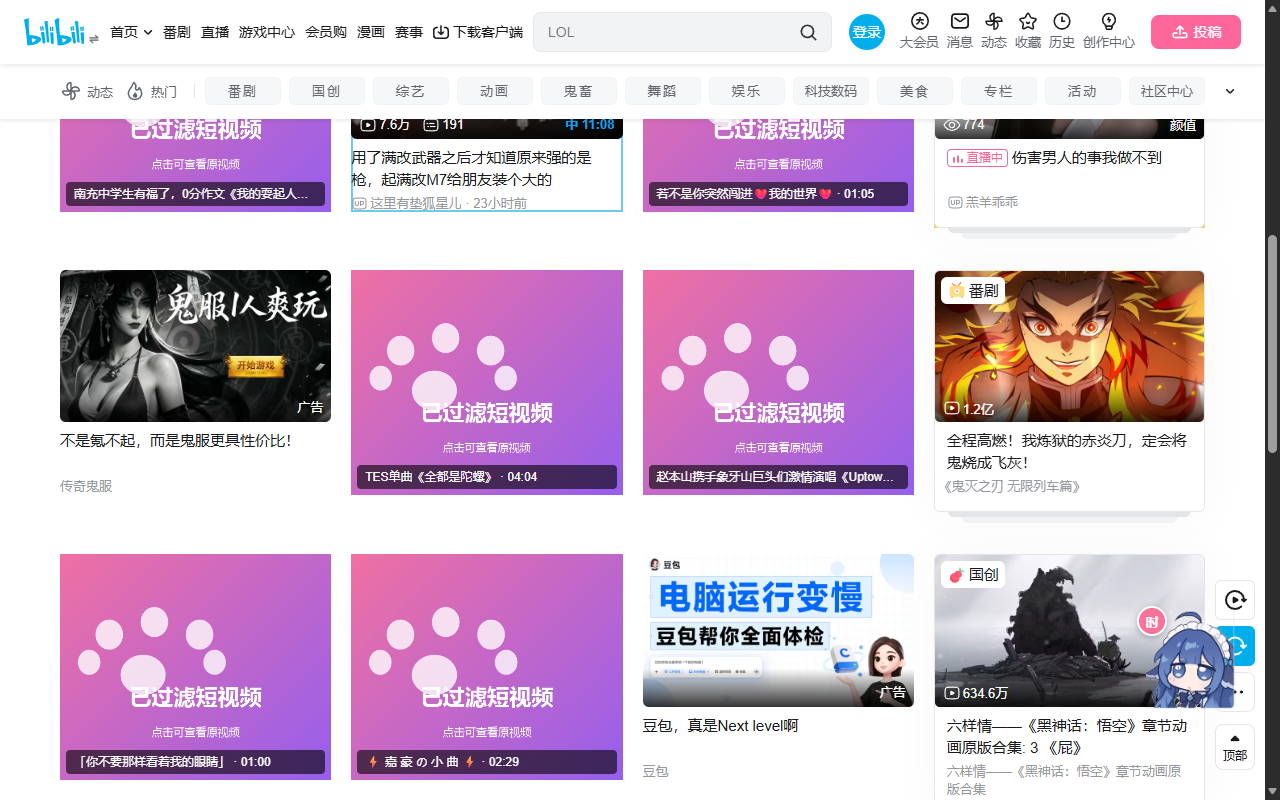
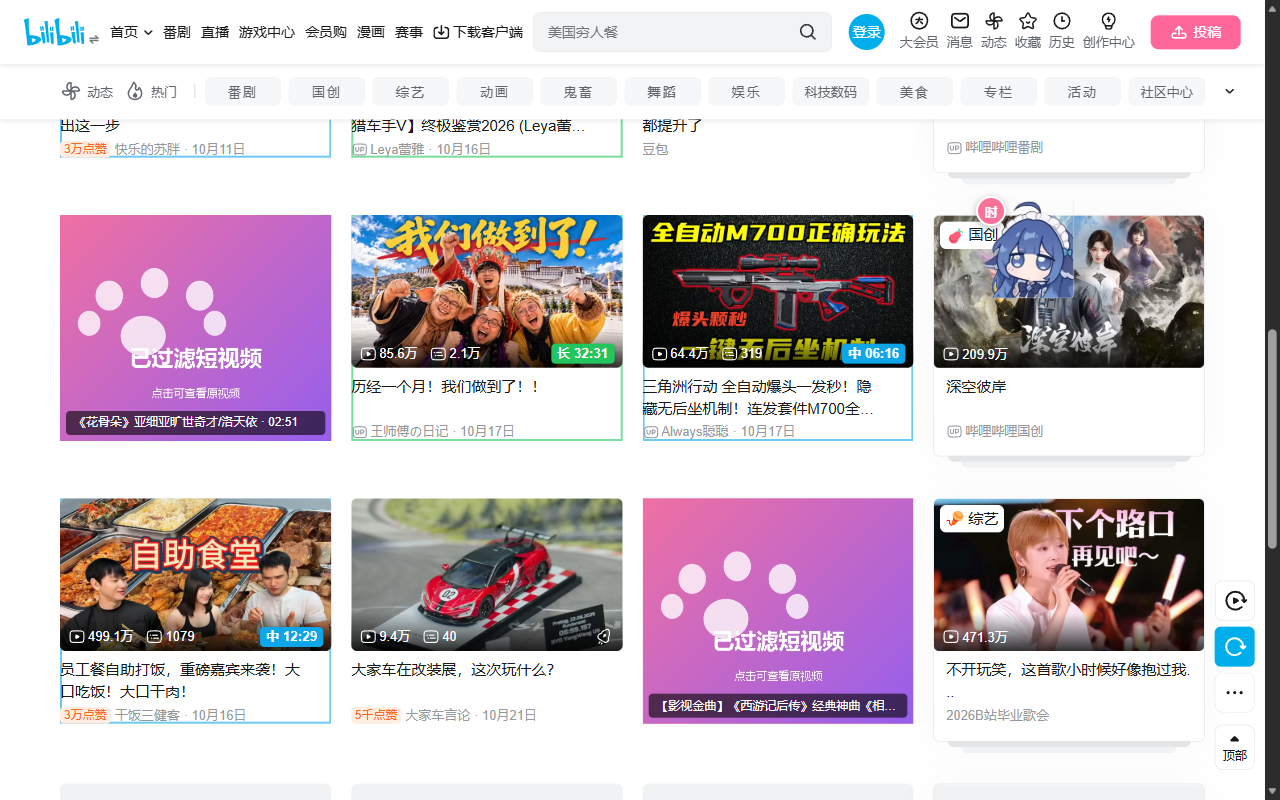
feat: turn duration labels into colored badges (v1.5.4)
short/mid/long now render as filled pills (#f43f5e / #0ea5e9 / #22c55e) instead of colored prefix text, so the tier is readable at a glance. Five store screenshots reshot against 1.5.4.

diff --git a/B站时长过滤扩展/content.js b/B站时长过滤扩展/content.js
@@ -269,10 +269,15 @@
     .bili-dur-mid { box-shadow: inset 0 0 0 2px rgba(14, 165, 233, 0.6); }
     .bili-dur-long { box-shadow: inset 0 0 0 2px rgba(34, 197, 94, 0.6); }
     .bili-dur-live { box-shadow: inset 0 0 0 2px rgba(255, 170, 0, 0.6); }
-    .bili-dur-short [data-bili-dur-marked] { color: #f43f5e; }
-    .bili-dur-mid [data-bili-dur-marked] { color: #0ea5e9; }
-    .bili-dur-long [data-bili-dur-marked] { color: #22c55e; }
-    [data-bili-dur-marked] { font-weight: 600; }
+    [data-bili-dur-marked] {
+      display: inline-block; font-weight: 700; letter-spacing: 0.2px;
+      padding: 1px 6px; border-radius: 4px; line-height: 1.4;
+      color: #fff; background: rgba(0,0,0,0.62);
+      box-shadow: 0 1px 3px rgba(0,0,0,0.3);
+    }
+    .bili-dur-short [data-bili-dur-marked] { color: #fff; background: #f43f5e; }
+    .bili-dur-mid [data-bili-dur-marked] { color: #fff; background: #0ea5e9; }
+    .bili-dur-long [data-bili-dur-marked] { color: #fff; background: #22c55e; }
     .bili-dur-filtered { position: relative !important; overflow: hidden; }
     .bili-dur-filtered > *:not(.bili-dur-ph-tag) { opacity: 0; }
     .bili-dur-filtered::after {

diff --git a/docs/商店文案.md b/docs/商店文案.md
@@ -116,13 +116,15 @@ short video blocker
 
 ## 8. Screenshots（截图，1280×800 或 640×480，最多 6 张）
 
-已拍好 5 张，存放在 `docs/screenshots/`，尺寸就是 1280×800，可直接上传。按下面顺序提交，顺序即卖点顺序：
+已拍好 5 张（1.5.4 徽章版），存放在 `docs/screenshots/`，尺寸就是 1280×800，可直接上传。按下面顺序提交，顺序即卖点顺序：
 
-1. `01-store-home.png` —— **首页分类 + 遮挡**。7 张卡片在视口内，15 张带档位标记（彩色描边 + 时长前的「短/中/长」），其中 5 张短视频被猫爪占位图盖住，右下角挂件完整在框内。
-2. `02-store-search.png` —— **搜索页过滤**。搜索结果里 7 张带时长标记、4 张被盖住，一屏看出过滤密度。
-3. `03-store-pet-panel.png` —— **桌宠 + 快捷面板**。面板 rect 700,180–960,612，四条边都在画面内，挂件在 980,200 不被压住。
+1. `01-store-home.png` —— **首页分类 + 遮挡**。视口内 8 张卡片，其中 2 张盖上猫爪占位图、3 张带彩色时长徽章（蓝底「中」、绿底「长」），全页 23 处时长标记。右下角挂件完整，无登录弹窗、无空白。
+2. `02-store-search.png` —— **搜索页过滤**。搜索结果里 9 张带彩色徽章（蓝底「中」字清晰可读）、4 张被盖住，一屏看出过滤密度。
+3. `03-store-pet-panel.png` —— **桌宠 + 快捷面板**。面板 rect 700,180–960,613，四条边都在画面内，挂件在 980,200 不被压住；同屏能看到绿底「长 57:13」徽章。
 4. `04-store-popup.png` —— **弹窗设置页**。阈值、开关、三组遮挡照片一屏全见。弹窗本身 300px 宽，出图时按 0.9 缩放居中摆放（实测 bottom 761，没被裁），控件内容没有改动。
-5. `05-store-unhide.png` —— **点击放行**。与第 1 张同位置、同配置、同一次页面加载，用真实鼠标事件左键点掉一张后，被遮卡片恢复成正常封面。像素比对：全画面只有 5.96% 变化，其中 74% 集中在被点的那张卡片，其余区域不动。
+5. `05-store-unhide.png` —— **点击放行**。与第 1 张同位置、同配置、同一次页面加载，用真实鼠标事件左键点掉一张后，被遮卡片数 5→4，恢复成正常封面（徽章「中06:16」「长32:31」清晰）。
+
+1.5.4 把时长标签从彩色文字改成彩色徽章（短=玫红 `#f43f5e`、中=天蓝 `#0ea5e9`、长=绿 `#22c55e`，白字、圆角、加粗）。有个反直觉点记一下：**开启「过滤短视频」时，短档卡片必然被遮挡，短徽章在图上永远看不到**——这是设计结果，不是 bug，别为了凑三色去关过滤。想展示三色只能关掉过滤，那样就看不出过滤效果了，不建议。
 
 第 6 张（可选）：照片组管理特写，把弹窗下半部分放大单独截一张。
 
@@ -178,7 +180,7 @@ short video blocker
 
 测试步骤：
 1. 安装后打开 https://www.bilibili.com/ ，页面右下角出现一个角色小挂件，旁边有「时」字按钮。
-2. 首页视频卡片右下角的时长前面会出现「短 / 中 / 长」标签，卡片带一圈同色描边。
+2. 首页视频卡片右下角的时长显示成彩色徽章（短=玫红、中=天蓝、长=绿，白字带「短 / 中 / 长」），卡片带一圈同色描边。
 3. 默认开启「过滤短视频」（5 分钟以下），这类卡片会被一张灰色占位图盖住，底部显示视频名和时长。
 4. 点击工具栏图标打开弹窗，可切换三个过滤开关、拖动两个阈值拉杆、上传自定义遮挡图。
 5. 单击被遮挡的卡片会解除该卡的遮挡，右键单击恢复。
@@ -188,7 +190,7 @@ short video blocker
 
 扩展不发起任何网络请求，无远程代码，全部逻辑在包内。
 
-版本变更：1.5.3 —— 新增「显示桌宠挂件」开关（弹窗与页内面板均可切换，关闭时页面更干净）。1.5.2 —— 挂件面板跟随定位、左右键分离解除/恢复、照片组按档位独立轮换。
+版本变更：1.5.4 —— 时长标签改为彩色徽章（玫红/天蓝/绿，白字圆角底），分档一眼可辨。1.5.3 —— 新增「显示桌宠挂件」开关（弹窗与页内面板均可切换，关闭时页面更干净）。1.5.2 —— 挂件面板跟随定位、左右键分离解除/恢复、照片组按档位独立轮换。
 ```
 
 ---

diff --git a/README.md b/README.md
@@ -4,11 +4,11 @@
 
 被挡掉的卡片不会塌成空白，而是盖上一张占位图（可以是自己的图，多张轮换），想看的点一下就恢复。默认只挡 5 分钟以下的视频，其余档位默认关着，谁都可以自己调阈值。
 
-> 当前版本 **1.5.3**　|　Manifest V3　|　仅需 `storage` 权限　|　不联网、不采集任何数据
+> 当前版本 **1.5.4**　|　Manifest V3　|　仅需 `storage` 权限　|　不联网、不采集任何数据
 
 ![首页效果](docs/screenshots/01-store-home.png)
 
-搜索页效果（10 张带标签、7 张被遮挡）：
+搜索页效果（9 张带彩色徽章、4 张被遮挡）：
 
 ![搜索页效果](docs/screenshots/02-store-search.png)
 
@@ -20,7 +20,7 @@ B 站首页和搜索页的推荐按你的兴趣排，不按时长排。想找点
 
 这个扩展把这件事做成一眼可见：
 
-- 时长前面加 **短 / 中 / 长** 标签，三档各一种颜色
+- 时长做成 **短 / 中 / 长** 彩色徽章（玫红 / 天蓝 / 绿），三档各一种颜色，卡片带同色描边
 - 卡片描一圈同色边框，扫视时不用读数字
 - 不想要的档位直接遮挡，页面布局不变形
 
@@ -175,6 +175,10 @@ python tools/pack.py
 `*.pem`（打包私钥）绝对不要提交到仓库，`.gitignore` 已经排掉了。
 
 ## 更新日志
+
+**1.5.4**
+- 时长标签改成彩色徽章：短=玫红、中=天蓝、长=绿，白字圆角底，字号加粗，一屏扫下来分档看得清
+- 徽章和卡片本身的彩色描边用同一套色，遮住封面后被挡卡只留占位图和说明条
 
 **1.5.3**
 - 新增「显示桌宠挂件」开关，弹窗和页内快捷面板都能改；关掉时面板一起收起，从弹窗恢复
